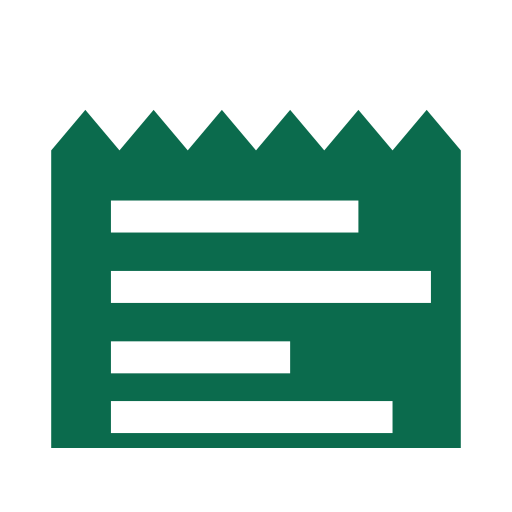
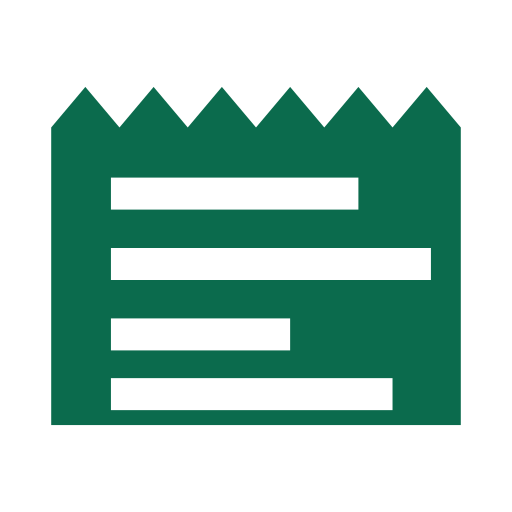
fix(brand): close the review findings on the v4 lockup and assets
Review of PR #227 turned up defects in the brand layer that the draft left
open. Fixed here so the PR can be squashed and merged.

- .gitignore: `MERGE_PLAN.md.vitest/` was one line, so neither MERGE_PLAN.md
  nor .vitest/ was ignored. Split them apart.
- MataresitMark: the scan clip used fillRule, which does not set clip-rule.
  The clip fell back to nonzero, where the four rows wind the same way as
  the body and count as solid, so the scan band painted over the row holes.
- tools/brand-mark.cjs: new. The generators re-drew the mark instead of
  reading it, and had drifted — they omitted the 1.075-unit ink-centring
  shift the component applies, so every committed raster sat 1.075/24 of
  its size too low (23px at 512). They now read the path from
  brand_guidelines/assets/mataresit-mark.svg and share the shift, and the
  generator refuses to run if MataresitMark.tsx has drifted from it.
  Regenerated the PNGs, the two SVGs and favicon.ico.
- LogoLockup: the focus ring was accent at 50% opacity, about 1.4:1 on the
  near-black auth panel and sidebar. It is now full strength and tone-aware.
- LogoLockup: the panel mint was a hardcoded #3FBF8E. It is now
  --ledger-accent-on-panel, and the note claiming those surfaces never get
  the .dark class is corrected — .dark is on <html>.
- index.css: the scan bar defaulted to --ledger-surface (white) while every
  lockup it runs on sits on paper. Default is now --ledger-paper.
[…]

Changed region(s): [[0.0938, 0.3438, 0.9062, 0.875], [0.0938, 0.1562, 0.9062, 0.3125]]

diff --git a/src/components/brand/__tests__/LogoLockup.test.tsx b/src/components/brand/__tests__/LogoLockup.test.tsx
@@ -28,7 +28,7 @@ describe("LogoLockup", () => {
     const { container, rerender } = renderLockup(<LogoLockup />);
     const markWrapper = () => container.querySelector('svg[data-mark="mataresit"]')!.parentElement!;
 
-    expect(markWrapper().className).toContain("text-ledger-accent");
+    expect(markWrapper().className.split(" ")).toContain("text-ledger-accent");
 
     rerender(
       <MemoryRouter>
@@ -36,8 +36,26 @@ describe("LogoLockup", () => {
       </MemoryRouter>,
     );
 
-    expect(markWrapper().className).toContain("text-[#3FBF8E]");
-    expect(markWrapper().className).not.toContain("text-ledger-accent");
+    expect(markWrapper().className.split(" ")).toContain("text-ledger-accent-on-panel");
+    expect(markWrapper().className.split(" ")).not.toContain("text-ledger-accent");
+  });
+
+  it("keeps the focus ring readable on the always-dark panel tone", () => {
+    const { rerender } = renderLockup(<LogoLockup />);
+    const link = () => screen.getByRole("link", { name: "Mataresit home" });
+
+    // A half-strength accent ring on the near-black panel is about 1.4:1 and
+    // disappears, so the panel tone rings in the on-panel colour instead.
+    expect(link().className.split(" ")).toContain("focus-visible:ring-ledger-accent");
+
+    rerender(
+      <MemoryRouter>
+        <LogoLockup tone="on-panel" />
+      </MemoryRouter>,
+    );
+
+    expect(link().className.split(" ")).toContain("focus-visible:ring-ledger-on-panel");
+    expect(link().className.split(" ")).not.toContain("focus-visible:ring-ledger-accent");
   });
 
   it("honours the size ladder without dropping below the 16px floor", () => {
@@ -98,5 +116,23 @@ describe("MataresitMark", () => {
     expect(path).toHaveAttribute("fill-rule", "evenodd");
     // Five subpaths: the receipt body plus four cut rows.
     expect(path.getAttribute("d")!.match(/M/g)).toHaveLength(5);
+  });
+
+  it("clips the scan pass to the mark, keeping the row holes open", () => {
+    const { container } = render(<MataresitMark scan />);
+    const clipPath = container.querySelector("clipPath path")!;
+
+    // The clip defaults to `nonzero`, where the rows wind the same way as the
+    // body and count as solid — the scan band would then paint over the holes.
+    expect(clipPath).toHaveAttribute("clip-rule", "evenodd");
+    expect(clipPath.getAttribute("d")!.match(/M/g)).toHaveLength(5);
+  });
+
+  it("centres the ink, not the box", () => {
+    const { container } = render(<MataresitMark />);
+    const group = container.querySelector("g")!;
+
+    // The art spans y 5.15 to 21, so it is shifted up by 1.075 units.
+    expect(group.getAttribute("transform")).toBe("translate(0 -1.075)");
   });
 });

diff --git a/src/components/brand/LogoLockup.tsx b/src/components/brand/LogoLockup.tsx
@@ -16,10 +16,22 @@ const MARK_SIZE_CLASSES: Record<MarkSize, string> = {
 const TONE_CLASSES: Record<LockupTone, string> = {
   // Light surfaces: ember green, the product's light-mode primary.
   accent: "text-ledger-accent",
-  // Always-dark panels (sidebar, auth panel) never receive the `.dark` class,
-  // so the sheet's dark-mode mint is applied directly.
-  "on-panel": "text-[#3FBF8E] [--mark-scan-color:var(--ledger-panel)]",
+  // Always-dark panels (sidebar, auth panel) are dark whatever the app theme
+  // is, so they take the sheet's dark-mode mint directly rather than the
+  // theme's accent, which would be ember green on a near-black plate.
+  "on-panel": "text-ledger-accent-on-panel [--mark-scan-color:var(--ledger-panel)]",
   inherit: "",
+};
+
+/**
+ * Focus ring per tone. The ring is drawn at full strength: the panel tone sits
+ * on a near-black plate, where a half-strength accent ring drops to about
+ * 1.4:1 and disappears.
+ */
+const TONE_FOCUS_CLASSES: Record<LockupTone, string> = {
+  accent: "focus-visible:ring-ledger-accent",
+  "on-panel": "focus-visible:ring-ledger-on-panel",
+  inherit: "focus-visible:ring-ledger-accent",
 };
 
 interface LogoLockupProps {
@@ -41,9 +53,9 @@ interface LogoLockupProps {
  * The one definition of the Mataresit lockup: brand mark + wordmark.
  *
  * Every surface that shows the company logo renders this, so the mark geometry
- * and colour rules stay identical. The wordmark stays in the product's display
- * serif (see BRAND-NOTES.md — a deliberate difference from the brand sheet,
- * which sets it in Instrument Sans SemiBold).
+ * and colour rules stay identical. The wordmark is live text in the app's UI
+ * font (Instrument Sans), which is what the brand sheet asks for; it is not
+ * outlined, so the font has to stay available.
  */
 export function LogoLockup({
   to = "/",
@@ -69,7 +81,8 @@ export function LogoLockup({
   );
 
   const sharedClassName = cn(
-    "group inline-flex items-center gap-2.5 rounded-[6px] focus-visible:outline-none focus-visible:ring-2 focus-visible:ring-ledger-accent/50",
+    "group inline-flex items-center gap-2.5 rounded-[6px] focus-visible:outline-none focus-visible:ring-2",
+    TONE_FOCUS_CLASSES[tone],
     className,
   );
 

diff --git a/src/components/brand/MataresitMark.tsx b/src/components/brand/MataresitMark.tsx
@@ -10,9 +10,12 @@ const MARK_PATH =
 /**
  * Vertical centre of the mark's ink inside the 24 x 24 canvas: the art spans
  * y 5.15 (tear peaks) to y 21 (flat cut base). Centring the box alone leaves the
- * ink 1.32 units low, which is what makes a flex-aligned wordmark look sunk.
+ * ink 1.075 units low, which is what makes a flex-aligned wordmark look sunk.
  */
 const MARK_INK_CENTRE = (5.15 + 21) / 2;
+
+/** How far the art moves up so the ink centre lands on the canvas centre. */
+const MARK_INK_SHIFT = Number((MARK_INK_CENTRE - 12).toFixed(3));
 
 interface MataresitMarkProps {
   /** Accessible name. Omitted leaves the mark decorative (`aria-hidden`). */
@@ -49,15 +52,21 @@ export function MataresitMark({ title, className, scan = false }: MataresitMarkP
       {scan ? (
         <defs>
           <clipPath id={clipId}>
-            <path fillRule="evenodd" d={MARK_PATH} />
+            {/* `clipRule` decides how the clip is filled. Without it the clip
+                defaults to `nonzero`, and because the four rows wind the same
+                way as the receipt body they would count as solid — the scan
+                band would paint over the row holes and the mark would read as
+                a filled block instead of a receipt being swept. */}
+            <path clipRule="evenodd" fillRule="evenodd" d={MARK_PATH} />
           </clipPath>
         </defs>
       ) : null}
       {/* The mark letterboxes inside its square box: 2.4–21.6 wide, 5.15–21 tall,
-          so its ink sits 1.32 units low. Shift it up so the visual centre of the
+          so its ink sits 1.075 units low. Shift it up so the visual centre of the
           ink lands on the box centre and a flex-centred wordmark lines up with
-          it. The shift is one constant in the 24-unit space. */}
-      <g transform={`translate(0 ${-(MARK_INK_CENTRE - 12)})`}>
+          it. The shift is one constant in the 24-unit space, and the asset
+          generators apply the same one — see tools/brand-mark.cjs. */}
+      <g transform={`translate(0 ${-MARK_INK_SHIFT})`}>
         <path fillRule="evenodd" d={MARK_PATH} />
         {scan ? (
           <g clipPath={`url(#${clipId})`} aria-hidden="true">

diff --git a/tools/verify-logo-update.js b/tools/verify-logo-update.js
@@ -12,6 +12,7 @@ console.log('🎨 Brand mark verification');
 console.log('='.repeat(50));
 
 const RASTER_SIZES = [32, 64, 180, 192, 512];
+const RASTER_TILES = [192, 512];
 const SVG_ASSETS = ['/mataresit-mark.svg', '/mataresit-icon.svg'];
 
 // Test 1: vector assets are served
@@ -34,6 +35,24 @@ RASTER_SIZES.forEach((size) => {
     })
     .catch((error) => console.log(`   ❌ ${path}:`, error));
 });
+
+// Test 2b: the opaque tiles and the notification badge are served
+console.log('\n📝 Test 2b: Tiles and badge...');
+RASTER_TILES.forEach((size) => {
+  const path = `/mataresit-tile-${size}.png`;
+  fetch(path, { method: 'HEAD' })
+    .then((response) => {
+      console.log(response.ok ? `   ✅ ${path}` : `   ❌ ${path} not accessible`);
+    })
+    .catch((error) => console.log(`   ❌ ${path}:`, error));
+});
+fetch('/mataresit-badge.png', { method: 'HEAD' })
+  .then((response) => {
+    console.log(
+      response.ok ? '   ✅ /mataresit-badge.png' : '   ❌ /mataresit-badge.png not accessible',
+    );
+  })
+  .catch((error) => console.log('   ❌ /mataresit-badge.png:', error));
 
 // Test 3: the lockup renders the mark, not a bitmap
 console.log('\n📝 Test 3: Lockup in page chrome...');
@@ -83,8 +102,10 @@ setTimeout(() => {
   report('SVG favicon', svgIcon, 'href', 'mataresit-mark.svg');
   report('PNG favicon', pngIcon, 'href', 'mataresit-32.png');
   report('Apple touch icon', touchIcon, 'href', 'mataresit-180.png');
-  report('Open Graph image', ogImage, 'content', 'mataresit-512.png');
-  report('Twitter image', twitterImage, 'content', 'mataresit-512.png');
+  // Social cards use the opaque tile: a transparent PNG is flattened onto an
+  // unpredictable background by most scrapers.
+  report('Open Graph image', ogImage, 'content', 'mataresit-tile-512.png');
+  report('Twitter image', twitterImage, 'content', 'mataresit-tile-512.png');
   report('Theme colour', themeColour, 'content', '#0B6B4D');
 }, 500);
 

diff --git a/src/index.css b/src/index.css
@@ -136,6 +136,7 @@
   --color-ledger-line-strong: var(--ledger-line-strong);
   --color-ledger-accent: var(--ledger-accent);
   --color-ledger-accent-foreground: var(--ledger-accent-foreground);
+  --color-ledger-accent-on-panel: var(--ledger-accent-on-panel);
   --color-ledger-accent-hover: var(--ledger-accent-hover);
   --color-ledger-accent-soft: var(--ledger-accent-soft);
   --color-ledger-amber: var(--ledger-amber);
@@ -165,6 +166,11 @@
     --ledger-line-strong: #C2C8BE;
     --ledger-accent: #0B6B4D;
     --ledger-accent-foreground: #FFFFFF;
+    /* The brand sheet's dark-mode mint. Chrome that is always dark (workspace
+       sidebar, auth panel) stays dark whatever the app theme is, so it takes
+       this instead of the theme's accent. Theme-independent: not redeclared
+       under `.dark`. */
+    --ledger-accent-on-panel: #3FBF8E;
     --ledger-accent-hover: #085741;
     --ledger-accent-soft: #DFEFE6;
     --ledger-amber: #7A4200;
@@ -379,9 +385,11 @@
 }
 
 .mataresit-mark__scan {
-  /* The bar is painted in the surface colour, so it wipes the mark as it
-     passes — that is what reads as the document being read. */
-  fill: var(--mark-scan-color, var(--ledger-surface));
+  /* The bar is painted in the colour of the surface behind the mark, so it
+     wipes the mark as it passes — that is what reads as the document being
+     read. The default is paper, which is what every light-surface lockup
+     sits on; the panel tone overrides it with `--ledger-panel`. */
+  fill: var(--mark-scan-color, var(--ledger-paper));
   opacity: 0;
 }
 

diff --git a/index.html b/index.html
@@ -12,11 +12,11 @@
     <meta property="og:description" content="Mataresit - Streamlining your digital experience." />
     <meta property="og:type" content="website" />
     <meta property="og:url" content="https://mataresit.vercel.app/" />
-    <meta property="og:image" content="/mataresit-512.png" />
+    <meta property="og:image" content="/mataresit-tile-512.png" />
 
     <meta name="twitter:card" content="summary_large_image" />
     <meta name="twitter:site" content="@mataresit" />
-    <meta name="twitter:image" content="/mataresit-512.png" />
+    <meta name="twitter:image" content="/mataresit-tile-512.png" />
 
     <!-- Brand mark ("a receipt read back as data"): SVG first, PNG fallbacks,
          solid tile for platforms that crop or composite transparency. -->

diff --git a/src/lib/i18n-seo.ts b/src/lib/i18n-seo.ts
@@ -257,14 +257,14 @@ export class SEOMetaManager {
         url: baseURL,
         logo: {
           '@type': 'ImageObject',
-          url: `${baseURL}/mataresit-512.png`
+          url: `${baseURL}/mataresit-tile-512.png`
         }
       };
     }
 
     if (pageData.type === 'Organization') {
       structuredData.url = baseURL;
-      structuredData.logo = `${baseURL}/mataresit-512.png`;
+      structuredData.logo = `${baseURL}/mataresit-tile-512.png`;
       structuredData.contactPoint = {
         '@type': 'ContactPoint',
         contactType: 'customer service',

diff --git a/src/components/blog/BlogSEO.tsx b/src/components/blog/BlogSEO.tsx
@@ -17,7 +17,7 @@ export function BlogSEO({ post, isIndex = false, title, description }: BlogSEOPr
   const defaultTitle = title || String(tResources('meta.blog.title'));
   const defaultDescription =
     description || String(tResources('meta.blog.description'));
-  const defaultImage = '/mataresit-512.png';
+  const defaultImage = '/mataresit-tile-512.png';
   const siteUrl = window.location.origin;
 
   // Generate SEO values based on whether it's index or individual post

diff --git a/public/docs/api/swagger-ui.html b/public/docs/api/swagger-ui.html
@@ -5,7 +5,7 @@
     <meta name="viewport" content="width=device-width, initial-scale=1.0">
     <title>Mataresit API Documentation</title>
     <link rel="stylesheet" type="text/css" href="https://unpkg.com/swagger-ui-dist@5.10.5/swagger-ui.css" />
-    <link rel="icon" type="image/png" href="/mataresit-icon.png" sizes="32x32" />
+    <link rel="icon" type="image/png" href="/mataresit-32.png" sizes="32x32" />
     <style>
         html {
             box-sizing: border-box;

diff --git a/src/components/testing/NotificationSystemTester.tsx b/src/components/testing/NotificationSystemTester.tsx
@@ -214,7 +214,7 @@ export function NotificationSystemTester() {
             payload: {
               title: 'Test Push Notification',
               body: `Receipt from ${testMerchant} processed successfully`,
-              icon: '/icon-192x192.png',
+              icon: '/mataresit-192.png',
               badge: '/mataresit-badge.png',
               data: {
                 receiptId: testReceiptId,

diff --git a/brand_guidelines/BRAND-NOTES.md b/brand_guidelines/BRAND-NOTES.md
@@ -73,16 +73,17 @@ Where this design lives in the app.
 | Piece | Location |
 | --- | --- |
 | Lockup (mark + wordmark) | `src/components/brand/LogoLockup.tsx` — the only definition. Navbar, marketing header/footer, auth panel, auth callback, workspace sidebar all render it. |
-| Mark geometry | `src/components/brand/MataresitMark.tsx` — single even-odd path, `currentColor`. Do not re-draw it anywhere else. |
-| Scan pass | `.mataresit-mark__scan` + `@keyframes mataresit-mark-scan` in `src/index.css`. The bar is painted in the surface colour so it wipes the mark as it passes. |
-| App assets | `public/mataresit-mark.svg` (seed colour, for `<img>`/favicon), `public/mataresit-icon.svg` (tile), `mataresit-{32,64,180,192,512}.png`, `mataresit-tile-{192,512}.png`, `mataresit-badge.png` (monochrome notification badge), `favicon.ico` (16/24/32/48). |
-| Asset generators | `tools/generate-brand-assets.cjs`, `tools/generate-favicon.cjs`, `tools/pack-favicon.cjs`. One-off; not part of the build. |
+| Mark geometry | `src/components/brand/MataresitMark.tsx` — single even-odd path, `currentColor`. The path itself is authored in `brand_guidelines/assets/mataresit-mark.svg`; the component and the asset generators both read it from there. Do not re-draw it anywhere else. |
+| Scan pass | `.mataresit-mark__scan` + `@keyframes mataresit-mark-scan` in `src/index.css`. The bar is painted in the colour of the surface behind the mark, so it wipes the mark as it passes. |
+| App assets | `public/mataresit-mark.svg` (seed colour, for `<img>`/favicon), `public/mataresit-icon.svg` (tile), `mataresit-{32,64,180,192,512}.png`, `mataresit-tile-{192,512}.png` (opaque tiles — social cards), `mataresit-badge.png` (monochrome notification badge), `favicon.ico` (16/24/32/48). |
+| Asset generators | `tools/brand-mark.cjs` (the shared geometry), `tools/generate-brand-assets.cjs`, `tools/generate-favicon.cjs`, `tools/pack-favicon.cjs`. One-off; not part of the build. |
 
-Optical centring: the art spans y 5.15 to 21 in the 24-unit box, so its ink sits 1.32 units below the box centre. `MataresitMark` wraps the path in a group translated up by `MARK_INK_CENTRE - 12` (1.075 units) so the visual centre of the ink lands on the box centre. That is what lets a flex-centred wordmark sit level with the mark instead of 1-2 px low. Keep that shift if the path is ever redrawn; it depends only on the ink bounds.
+Optical centring: the art spans y 5.15 to 21 in the 24-unit box, so its ink sits 1.075 units below the box centre. `MataresitMark` wraps the path in a group translated up by `MARK_INK_SHIFT` (1.075 units) so the visual centre of the ink lands on the box centre. That is what lets a flex-centred wordmark sit level with the mark instead of 1-2 px low. The asset generators apply the same shift, so the favicon and the in-app mark sit in the same place; `tools/brand-mark.cjs` holds the constant for both and fails the build if the component and the source SVG disagree. Keep that shift if the path is ever redrawn; it depends only on the ink bounds.
 
-Colour in code comes from the existing ledger tokens: `--ledger-accent` (`#0B6B4D` light, `#3FBF8E` dark) for the mark, with the dark-panel mint (`#3FBF8E`) applied directly on always-dark chrome such as the sidebar and auth panel, which never receive the `.dark` class.
+Colour in code comes from the existing ledger tokens: `--ledger-accent` (`#0B6B4D` light, `#3FBF8E` dark) for the mark, and `--ledger-accent-on-panel` (`#3FBF8E`) on always-dark chrome such as the sidebar and auth panel. That chrome is dark whatever the app theme is, so it takes the sheet's dark-mode mint directly rather than the theme's accent, which would be ember green on a near-black plate.
 
-Two deliberate differences from this sheet:
+Wordmark: live text in the app's UI font (Instrument Sans) — the family the sheet asks for. It is not outlined, so the font has to stay available. Each surface sets its own size and weight through `wordmarkClassName`; the family is the same everywhere.
 
-- **Wordmark font.** The sheet sets it in Instrument Sans SemiBold. In the app the wordmark stays in the product's display serif (Instrument Serif) for continuity with headings; only the mark was migrated.
-- **Sizes.** The lockup renders the mark at 26, 28, or 32 px. Nothing goes below the 16 px floor, and the 16 px favicon uses the mark alone.
+One deliberate difference from this sheet:
+
+- **Sizes.** The lockup renders the mark in a 32 / 36 / 40 px box. Nothing goes below the 16 px floor, and the 16 px favicon uses the mark alone.
